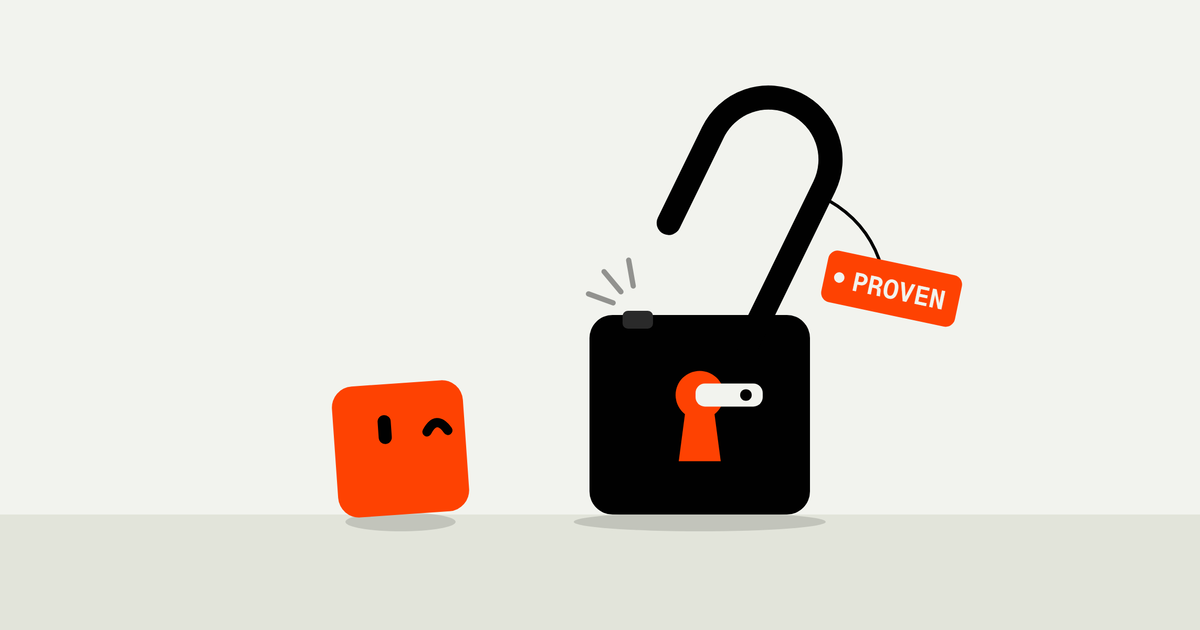
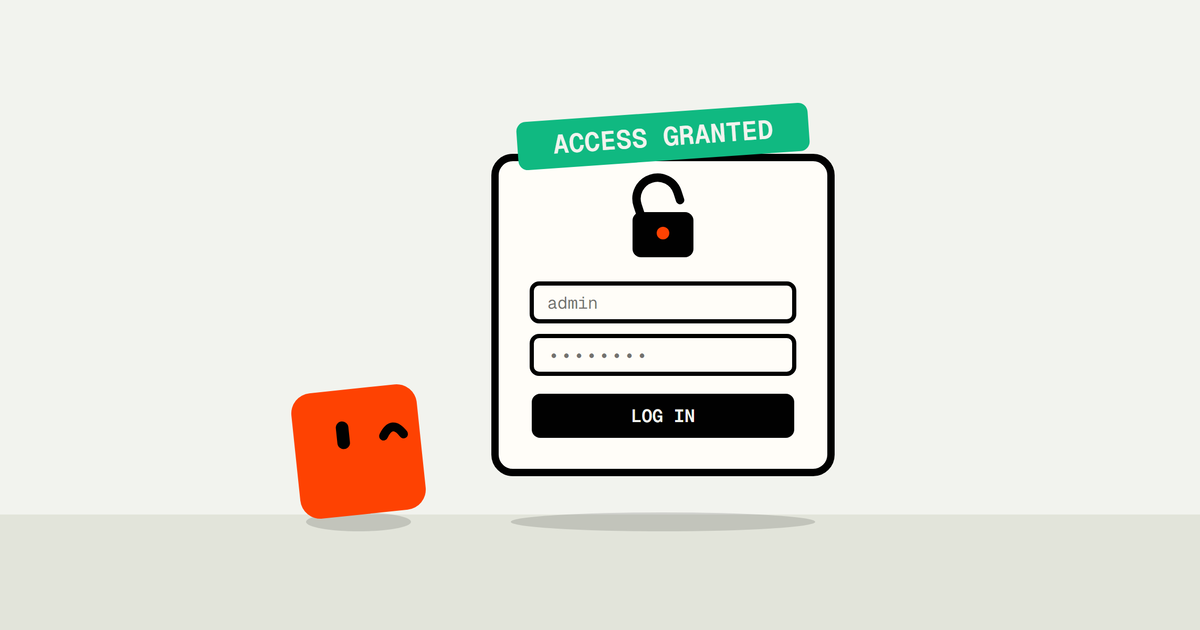
feat(motion): the login scene becomes the AI penetration testing cover
A login form with an open padlock and ACCESS GRANTED, Dot winking beside
it: chosen over the padlock scene as easier to read at a glance. The
unchosen drafts are removed; alt text updated.

Changed region(s): [[0.2158, 0.1206, 0.8017, 0.8444]]

diff --git a/motion/src/covers/ai-penetration-testing.tsx b/motion/src/covers/ai-penetration-testing.tsx
@@ -1,98 +1,55 @@
-import { CREAM, EMBER, FONT_MONO, INK } from "../brand";
+import { CREAM, EMBER, FONT_MONO, INK, SUCCESS } from "../brand";
 import { Dot } from "../dot";
 import { FLOOR, Shadow, Stage } from "./stage";
 
-// Cover for "What Is AI Penetration Testing?". The article's line: an AI
-// pentest doesn't report that a lock looks weak, it opens it and keeps the
-// proof. A big padlock with its shackle just popped open, the key still
-// turned in it, a PROVEN tag swinging off the shackle, and Dot beside it,
-// pleased.
+// Cover for "What Is AI Penetration Testing?". The plainest picture of what
+// an AI pentest proves: a login form it got through. An open padlock on the
+// form, ACCESS GRANTED above it, and Dot beside it with a wink. Chosen
+// 2026-10-02 over a padlock-only scene as easier to read at a glance.
 
-const LOCK = { x: 1180, y: 600, w: 420, h: FLOOR - 600 };
-const LEG_L = LOCK.x + 92;
-const LEG_R = LOCK.x + LOCK.w - 92;
-const SHACKLE_W = 46;
-// The shackle is lifted, then swung open on its right leg, which stays in the
-// body; the left leg comes free.
-const LIFT = 60;
-const SWING = 26;
-const PIVOT: [number, number] = [LEG_R, LOCK.y];
-const rad = (deg: number) => (deg * Math.PI) / 180;
-/** Where a point on the shackle ends up after the lift and the swing. */
-function swung([x, y]: [number, number]): [number, number] {
-  const [dx, dy] = [x - PIVOT[0], y - LIFT - PIVOT[1]];
-  const a = rad(SWING);
-  return [PIVOT[0] + dx * Math.cos(a) - dy * Math.sin(a), PIVOT[1] + dx * Math.sin(a) + dy * Math.cos(a)];
-}
-const DOT = { x: 820, size: 250 };
+const PAPER = "#fffdf8";
 
-function Shackle() {
-  const top = LOCK.y - 330;
-  const r = (LEG_R - LEG_L) / 2;
-  const d = `M ${LEG_L} ${LOCK.y - 20} L ${LEG_L} ${top + r} A ${r} ${r} 0 0 1 ${LEG_R} ${top + r} L ${LEG_R} ${LOCK.y + 120}`;
-  // The tag hangs off the right side of the open shackle, clear of the lock.
-  const [hx, hy] = swung([LEG_R + SHACKLE_W / 2 - 4, top + r + 20]);
+function Tag({ x, y, text, fill = EMBER, rotate = 0 }: { x: number; y: number; text: string; fill?: string; rotate?: number }) {
+  const w = text.length * 34 + 80;
   return (
-    <g>
-      <g transform={`rotate(${SWING} ${PIVOT[0]} ${PIVOT[1]}) translate(0 ${-LIFT})`}>
-        <path d={d} fill="none" stroke={INK} strokeWidth={SHACKLE_W} strokeLinecap="round" />
-      </g>
-      <path d={`M ${hx} ${hy} Q ${hx + 70} ${hy + 40} ${hx + 96} ${hy + 112}`} fill="none" stroke={INK} strokeWidth={6} strokeLinecap="round" />
-      <g transform={`translate(${hx + 120} ${hy + 168}) rotate(12)`}>
-        <rect x={-130} y={-50} width={260} height={100} rx={18} fill={EMBER} />
-        <circle cx={-102} cy={0} r={10} fill={CREAM} />
-        <text x={14} y={19} textAnchor="middle" fontFamily={FONT_MONO} fontWeight={600} fontSize={50} fill={CREAM}>
-          PROVEN
-        </text>
-      </g>
+    <g transform={`translate(${x} ${y}) rotate(${rotate})`}>
+      <rect x={-w / 2} y={-46} width={w} height={92} rx={18} fill={fill} />
+      <text x={0} y={18} textAnchor="middle" fontFamily={FONT_MONO} fontWeight={600} fontSize={50} fill={CREAM}>
+        {text}
+      </text>
     </g>
   );
 }
 
-function Body() {
-  const cx = LOCK.x + LOCK.w / 2;
-  const cy = LOCK.y + LOCK.h * 0.48;
-  return (
-    <g>
-      <rect x={LOCK.x} y={LOCK.y} width={LOCK.w} height={LOCK.h} rx={44} fill={INK} />
-      {/* The empty hole the left leg of the shackle came out of */}
-      <rect x={LEG_L - SHACKLE_W / 2 - 6} y={LOCK.y - 8} width={SHACKLE_W + 12} height={34} rx={10} fill="#2a2a2a" />
-      {/* Keyhole, lit, with the key turned a quarter in it */}
-      <circle cx={cx} cy={cy - 30} r={46} fill={EMBER} />
-      <path d={`M ${cx - 26} ${cy - 10} L ${cx + 26} ${cy - 10} L ${cx + 40} ${cy + 96} L ${cx - 40} ${cy + 96} Z`} fill={EMBER} />
-      <g transform={`rotate(90 ${cx} ${cy - 30})`}>
-        <rect x={cx - 22} y={cy - 150} width={44} height={128} rx={18} fill={CREAM} />
-        <circle cx={cx} cy={cy - 118} r={11} fill={INK} />
-      </g>
-    </g>
-  );
-}
 
 export function AiPenetrationTestingCover() {
+  const F = { x: 1000, y: 300, w: 640, h: 600 };
   return (
     <Stage tone="cream">
-      <Shadow x={LOCK.x + LOCK.w / 2} width={LOCK.w + 60} />
-      <Body />
-      <Shackle />
-      {/* The pop: where the left leg just left the body */}
-      {[-160, -130, -100].map((a) => {
-        const [x, y] = [LEG_L, LOCK.y - 6];
-        return (
-          <line
-            key={a}
-            x1={x + Math.cos(rad(a)) * 50}
-            y1={y + Math.sin(rad(a)) * 50}
-            x2={x + Math.cos(rad(a)) * 100}
-            y2={y + Math.sin(rad(a)) * 100}
-            stroke={INK}
-            strokeOpacity={0.4}
-            strokeWidth={10}
-            strokeLinecap="round"
-          />
-        );
-      })}
-      <Shadow x={DOT.x} width={210} />
-      <Dot x={DOT.x} y={FLOOR - DOT.size / 2} size={DOT.size} mood="wink" look={[1, -0.5]} rotate={-4} />
+      <Shadow x={F.x + F.w / 2} width={F.w - 60} />
+      <rect x={F.x} y={F.y} width={F.w} height={F.h} rx={34} fill={PAPER} stroke={INK} strokeWidth={14} />
+      {/* Open padlock icon at the top of the form */}
+      <g transform={`translate(${F.x + F.w / 2} ${F.y + 110})`}>
+        <path d="M -40 -6 L -40 -46 A 40 40 0 0 1 40 -46 L 40 -30" fill="none" stroke={INK} strokeWidth={16} strokeLinecap="round" transform="rotate(-18 40 -6)" />
+        <rect x={-58} y={-6} width={116} height={86} rx={16} fill={INK} />
+        <circle cx={0} cy={34} r={12} fill={EMBER} />
+      </g>
+      {/* Username and password fields, and the button */}
+      <rect x={F.x + 70} y={F.y + 240} width={F.w - 140} height={72} rx={14} fill="none" stroke={INK} strokeWidth={8} />
+      <text x={F.x + 100} y={F.y + 288} fontFamily={FONT_MONO} fontSize={32} fill={INK} opacity={0.55}>
+        admin
+      </text>
+      <rect x={F.x + 70} y={F.y + 340} width={F.w - 140} height={72} rx={14} fill="none" stroke={INK} strokeWidth={8} />
+      <text x={F.x + 100} y={F.y + 390} fontFamily={FONT_MONO} fontSize={40} fill={INK} opacity={0.55}>
+        ••••••••
+      </text>
+      <rect x={F.x + 70} y={F.y + 450} width={F.w - 140} height={84} rx={16} fill={INK} />
+      <text x={F.x + F.w / 2} y={F.y + 504} textAnchor="middle" fontFamily={FONT_MONO} fontWeight={600} fontSize={34} fill={CREAM}>
+        LOG IN
+      </text>
+      <Tag x={F.x + F.w / 2} y={F.y - 40} text="ACCESS GRANTED" fill={SUCCESS} rotate={-4} />
+      <Shadow x={740} width={200} />
+      <Dot x={740} y={FLOOR - 120} size={240} mood="wink" look={[1, -0.3]} rotate={-6} />
     </Stage>
   );
 }

diff --git a/motion/src/index.tsx b/motion/src/index.tsx
@@ -3,7 +3,6 @@ import { Composition, Still, registerRoot } from "remotion";
 import { CodingAgentVsVulnix, DURATION, FPS, HEIGHT, WIDTH } from "./CodingAgentVsVulnix";
 import { COVER_H, COVER_W } from "./covers/stage";
 import { AiPenetrationTestingCover } from "./covers/ai-penetration-testing";
-import { AiPentestBrowserCover, AiPentestLoginCover, AiPentestShieldCover } from "./covers/ai-penetration-testing-options";
 import { CodingAgentsCover } from "./covers/coding-agents";
 import { ScanningCover } from "./covers/scanning";
 import { ValidateFixCover } from "./covers/validate-fix";
@@ -19,9 +18,6 @@ function Root() {
         width={WIDTH}
         height={HEIGHT}
       />
-      <Still id="AiPentestBrowserCover" component={AiPentestBrowserCover} width={COVER_W} height={COVER_H} />
-      <Still id="AiPentestShieldCover" component={AiPentestShieldCover} width={COVER_W} height={COVER_H} />
-      <Still id="AiPentestLoginCover" component={AiPentestLoginCover} width={COVER_W} height={COVER_H} />
       <Still id="AiPenetrationTestingCover" component={AiPenetrationTestingCover} width={COVER_W} height={COVER_H} />
       <Still id="CodingAgentsCover" component={CodingAgentsCover} width={COVER_W} height={COVER_H} />
       <Still id="ScanningCover" component={ScanningCover} width={COVER_W} height={COVER_H} />

diff --git a/lib/article-cover.ts b/lib/article-cover.ts
@@ -11,7 +11,7 @@ type ArticleCover = {
 
 const ALT: Record<string, string> = {
   "what-is-ai-penetration-testing":
-    "Dot, the Vulnix character, winks beside a big padlock it has just opened, the key still turned in the lock and a PROVEN tag hanging from the shackle",
+    "A login form with an open padlock and an ACCESS GRANTED banner above it, and Dot, the Vulnix character, winking beside it",
   "ai-pentesting-vs-vulnerability-scanning":
     "Dot, the Vulnix character, carries one proven finding on its head while a scanner prints a long receipt of question marks",
   "can-coding-agents-replace-a-pentest":
